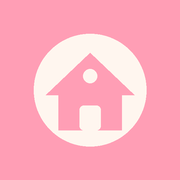
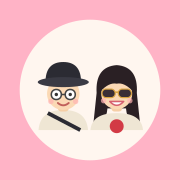
Add files via upload

diff --git a/index.html b/index.html
@@ -2,6 +2,7 @@
 <html lang="zh-Hant"><head><meta charset="utf-8">
 <meta name="viewport" content="width=device-width, initial-scale=1, viewport-fit=cover">
 <title>我們家的小金庫</title>
+<meta name="apple-mobile-web-app-status-bar-style" content="default">
 <link rel="manifest" href="manifest.json"><meta name="theme-color" content="#ff9eb5"><link rel="apple-touch-icon" href="apple-touch-icon.png"><meta name="apple-mobile-web-app-capable" content="yes"><meta name="mobile-web-app-capable" content="yes"><meta name="apple-mobile-web-app-title" content="小金庫">
 <style>
 :root{--bg:#fff6ef;--card:#ffffff;--tx:#5a4040;--sub:#a38a85;--pk:#ff9eb5;--pk2:#ffe1e8;--mt:#9bd8c0;--mt2:#e0f5ec;--yl:#ffd98a;--ln:#f3dcd2;--bad:#f08a8a;box-sizing:border-box;padding-top:env(safe-area-inset-top,0px);padding-bottom:env(safe-area-inset-bottom,0px);color-scheme:light}
@@ -29,7 +30,7 @@ nav button.on{background:var(--pk2);color:var(--tx);font-weight:700}nav span{dis
 </style>
 </head>
 <body>
-<h1>🏡 我們家的小金庫 🐻🐰</h1>
+<h1 id="hd"></h1>
 <div id="app"></div>
 <nav id="nav"></nav>
 <script>
@@ -53,7 +54,7 @@ function dref(c,id){const wr=async(o,d)=>{const t=cache[c]||(cache[c]={});if(o==
 const DB={collection:p=>({doc:id=>dref(p,id),onSnapshot(n,e){(subs[p]=subs[p]||[]).push([n,e]);return()=>{}}}),doc:p=>{const i=p.lastIndexOf('/');return dref(p.slice(0,i),p.slice(i+1))}};
 const rnd=n=>{const a=new Uint8Array(n);crypto.getRandomValues(a);return[...a].map(x=>x.toString(16).padStart(2,'0')).join('')};
 function pick(id){ID=id;try{localStorage.setItem('me',id)}catch(e){}render()}
-async function init(){CRED={};try{ID=localStorage.getItem('me')}catch(e){}render();start()}
+async function init(){$('#hd').innerHTML=ico('av:dad',46)+' 我們家的小金庫 '+ico('av:mom',46);CRED={};try{ID=localStorage.getItem('me')}catch(e){}render();start()}
 async function start(){
  if(API.startsWith('貼上')){msg='尚未設定後端網址，請見部署教學';render();return}
  db=DB;subs={};cache={};rd={f:0,p:1,m:0,a:1};const er=()=>{msg='連線錯誤';render()};
@@ -79,7 +80,7 @@ async function gen(){
  busy=0}
 function tot(pre){const r={i:0,o:0,f:0};all('tx').forEach(x=>{if(x.d.startsWith(pre)){if(x.t=='in')r.i+=x.a;else{r.o+=x.a;if(x.auto)r.f+=x.a}}});
  for(const id in A){if(id===ID)continue;const m=A[id].m||{};for(const k in m)if(k.startsWith(pre)){r.i+=m[k].i;r.o+=m[k].o;r.f+=m[k].f}}return r}
-const nm=id=>M[id]?M[id].e+' ':'👤 ';
+const nm=id=>M[id]?ico(M[id].e,18)+' ':'👤 ';
 function setTab(t){tab=t;render()}
 function render(){
  $('#nav').innerHTML=[['home','🏠','首頁'],['fix','🔁','固定收支'],['year','📊','年度報告'],['set','⚙','設定']].map(([k,i,n])=>`<button class="${tab==k?'on':''}" onclick="setTab('${k}')"><span>${i}</span>${n}</button>`).join('');
@@ -87,10 +88,10 @@ function render(){
  if(!CRED)b=loginHtml();else if(fail)b=`<div class="card"><b>🔑 需要登入才能共用</b><p class="sub">請在 claude.ai 登入你的帳號開啟這個頁面。擁有者要把另一半邀請為「Contributor（可使用並變更資料）」以上，兩人才能看到同一份帳本。</p></div>`;
  else if(!ok())b=`<div class="card">🐾 小金庫載入中…<p class="sub">${esc(msg)}</p></div>`;
  else{
-  const chips=Object.entries(M).map(([id,m])=>`<button class="chip ${id===ID?'on':''}" onclick="pick('${id}')">${esc(m.e)} ${esc(m.n)}${id===ID?'（我）':''}</button>`).join('');
+  const chips=Object.entries(M).map(([id,m])=>`<button class="chip ${id===ID?'on':''}" onclick="pick('${id}')">${ico(m.e,22)} ${esc(m.n)}${id===ID?'（我）':''}</button>`).join('');
   b=`<div class="row" style="justify-content:center">${chips}</div>`+(msg?`<div class="tip out">${esc(msg)} <button class="btn s" onclick="msg='';render()">知道了</button></div>`:'')+(!M[ID]?welcome():tab=='home'?home():tab=='fix'?fix():tab=='year'?year():set())}
  $('#app').innerHTML=b}
-function welcome(){return `<div class="card"><b>👋 歡迎！先告訴大家你是誰</b><div class="row" style="margin-top:8px"><input id="me" value="🐻" style="flex:0 0 56px;text-align:center"><input id="mn" placeholder="你的暱稱，如：老公"></div><button class="btn" style="width:100%;margin-top:10px" onclick="saveMe()">進入小金庫</button></div>`}
+function welcome(){return `<div class="card"><b>👋 歡迎！先告訴大家你是誰</b><div class="row" style="margin-top:8px"><input id="me" value="🐻" style="flex:0 0 56px;text-align:center"><input id="mn" placeholder="你的暱稱，如：老公"></div>${picker()}<button class="btn" style="width:100%;margin-top:10px" onclick="saveMe()">進入小金庫</button></div>`}
 function saveMe(){const n=$('#mn').value.trim();if(!n)return;if(!ID){ID=rnd(4);try{localStorage.setItem('me',ID)}catch(e){}}w(()=>db.doc('members/'+ID).set({n,e:$('#me').value||'🐻'}))}
 function mshift(d){vm+=d;if(vm>12){vm=1;vy++}if(vm<1){vm=12;vy--}render()}
 function home(){
@@ -104,8 +105,8 @@ function home(){
  <div class="row" style="margin-top:8px"><select id="c">${(vf.t=='in'?IC:EC).map(c=>`<option ${c==vf.c?'selected':''}>${c}</option>`).join('')}</select><input id="d" type="date" value="${vf.d||ym(cy,cm)+'-'+pad(td)}"></div>
  <div class="row" style="margin-top:8px"><input id="n" placeholder="備註（選填）" value="${esc(vf.n||'')}"></div>
  <button class="btn" style="width:100%;margin-top:10px" onclick="addTx()">記下來 🐾</button></div>
- ${budgetCard(list)}<div class="card"><b>📒 本月明細</b>
- ${list.length?list.map(x=>`<div class="li"><div>${esc(x.c)}${x.auto?'<span class="tag">自動</span>':''}${x.p?'<span class="tag">🙈</span>':''}<div class="sub">${x.d.slice(5)} ${nm(x.o)}${esc(x.note||'')}</div></div><div class="${x.t}">${x.t=='in'?'+':'-'}${$$(x.a)} ${x.o===ID?`<button class="btn s" onclick="del('${x.id}')">✕</button>`:''}</div></div>`).join(''):'<p class="sub">還沒有紀錄，開始記第一筆吧 🌱</p>'}</div>`}
+ ${budgetCard(list)}<div class="card"><b>📒 本月明細</b> <span class="sub">點一筆可修改金額或類別</span>
+ ${list.length?list.map(x=>x.id===editId?editRow(x):`<div class="li" onclick="edit('${x.id}')" style="cursor:pointer"><div>${esc(x.c)}${x.auto?'<span class="tag">自動</span>':''}${x.p?'<span class="tag">🙈</span>':''}<div class="sub">${x.d.slice(5)} ${nm(x.o)}${esc(x.note||'')}</div></div><div class="${x.t}">${x.t=='in'?'+':'-'}${$$(x.a)}</div></div>`).join(''):'<div style="text-align:center">'+ico('av:rider',90)+'<p class="sub">還沒有紀錄，開始記第一筆吧 🌱</p></div>'}</div>`}
 function budgetCard(list){
  const B=(all('budget')[0]||{}).m||{},sp={};let tt=0;list.forEach(x=>{if(x.t=='out'){sp[x.c]=(sp[x.c]||0)+x.a;tt+=x.a}});
  const cats=Object.keys(B),ex=EC.filter(c=>sp[c]&&!B[c]);
@@ -115,6 +116,15 @@ function setBud(){const a=parseFloat($('#ba').value);if(!(a>=0))return;const m={
 function trend(Y){const d=[];for(let m=1;m<=12;m++)d.push(tot(ym(Y,m)));const mx=Math.max(1,...d.map(t=>Math.max(t.i,t.o)));
  return `<div style="display:flex;gap:3px;margin-top:12px">${d.map((t,i)=>`<div style="flex:1;display:flex;flex-direction:column;align-items:center"><div style="display:flex;align-items:flex-end;gap:1px;height:70px"><i style="width:5px;border-radius:3px;background:var(--mt);height:${t.i/mx*100}%"></i><i style="width:5px;border-radius:3px;background:var(--pk);height:${t.o/mx*100}%"></i></div><span class="sub" style="font-size:10px">${i+1}月</span></div>`).join('')}</div><div class="sub">🟢 每月收入　🌸 每月支出</div>`}
 let vf={};
+const AV={"dad": "<svg viewBox=\"0 0 100 100\" width=\"100%\" height=\"100%\" xmlns=\"http://www.w3.org/2000/svg\"><path d=\"M18 100Q20 74 50 74Q80 74 82 100Z\" fill=\"#efe6d4\"/><path d=\"M30 78L72 100\" stroke=\"#2b2b33\" stroke-width=\"5\"/><rect x=\"43\" y=\"66\" width=\"14\" height=\"10\" rx=\"4\" fill=\"#f5cfa6\"/><circle cx=\"50\" cy=\"53\" r=\"21\" fill=\"#fbd9b5\"/><path d=\"M27 38Q27 12 50 12Q73 12 73 38Z\" fill=\"#2b2b33\"/><ellipse cx=\"50\" cy=\"38\" rx=\"33\" ry=\"6.5\" fill=\"#3a3a44\"/><circle cx=\"41\" cy=\"54\" r=\"6.5\" fill=\"#fff\" stroke=\"#444\" stroke-width=\"2\"/><circle cx=\"59\" cy=\"54\" r=\"6.5\" fill=\"#fff\" stroke=\"#444\" stroke-width=\"2\"/><path d=\"M47.5 54h5\" stroke=\"#444\" stroke-width=\"2\"/><circle cx=\"41\" cy=\"54\" r=\"2.2\" fill=\"#333\"/><circle cx=\"59\" cy=\"54\" r=\"2.2\" fill=\"#333\"/><path d=\"M43 65Q50 71 57 65\" stroke=\"#c0605a\" stroke-width=\"2.5\" fill=\"none\" stroke-linecap=\"round\"/><circle cx=\"34\" cy=\"63\" r=\"3.5\" fill=\"#ffb3b3\" opacity=\".7\"/><circle cx=\"66\" cy=\"63\" r=\"3.5\" fill=\"#ffb3b3\" opacity=\".7\"/></svg>", "mom": "<svg viewBox=\"0 0 100 100\" width=\"100%\" height=\"100%\" xmlns=\"http://www.w3.org/2000/svg\"><path d=\"M24 52Q22 18 50 16Q78 18 76 52L80 90Q64 94 62 72L38 72Q36 94 20 90Z\" fill=\"#2a2024\"/><path d=\"M16 100Q18 78 50 78Q82 78 84 100Z\" fill=\"#efe6d4\"/><circle cx=\"50\" cy=\"95\" r=\"9\" fill=\"#d23a45\"/><rect x=\"43\" y=\"66\" width=\"14\" height=\"10\" rx=\"4\" fill=\"#f5cfa6\"/><circle cx=\"50\" cy=\"53\" r=\"20\" fill=\"#fbd9b5\"/><path d=\"M29 50Q30 26 50 26Q70 26 71 50Q60 38 50 40Q40 38 29 50Z\" fill=\"#2a2024\"/><rect x=\"31\" y=\"47\" width=\"17\" height=\"11\" rx=\"5\" fill=\"#3b2f36\" stroke=\"#d9a441\" stroke-width=\"1.5\"/><rect x=\"52\" y=\"47\" width=\"17\" height=\"11\" rx=\"5\" fill=\"#3b2f36\" stroke=\"#d9a441\" stroke-width=\"1.5\"/><path d=\"M48 51h4\" stroke=\"#d9a441\" stroke-width=\"2\"/><path d=\"M41 63Q50 73 59 63Z\" fill=\"#fff\" stroke=\"#d6616f\" stroke-width=\"2\" stroke-linejoin=\"round\"/><circle cx=\"33\" cy=\"62\" r=\"3.5\" fill=\"#ffb3b3\" opacity=\".7\"/><circle cx=\"67\" cy=\"62\" r=\"3.5\" fill=\"#ffb3b3\" opacity=\".7\"/></svg>", "rider": "<svg viewBox=\"0 0 100 100\" width=\"100%\" height=\"100%\" xmlns=\"http://www.w3.org/2000/svg\"><circle cx=\"24\" cy=\"86\" r=\"11\" fill=\"none\" stroke=\"#555\" stroke-width=\"3\"/><circle cx=\"78\" cy=\"86\" r=\"11\" fill=\"none\" stroke=\"#555\" stroke-width=\"3\"/><path d=\"M24 86L44 68H64L78 86M44 68L50 86H24M62 68L58 56\" stroke=\"#8a8a8a\" stroke-width=\"3\" fill=\"none\"/><path d=\"M60 72Q82 64 92 80L72 80Z\" fill=\"#f6b21b\"/><path d=\"M34 62Q36 46 50 44Q64 46 66 62Z\" fill=\"#1d1d22\"/><path d=\"M62 50L70 60\" stroke=\"#1d1d22\" stroke-width=\"6\" stroke-linecap=\"round\"/><rect x=\"38\" y=\"60\" width=\"28\" height=\"13\" rx=\"5\" fill=\"#1f858c\"/><circle cx=\"46\" cy=\"66\" r=\"2\" fill=\"#f0e6d0\"/><circle cx=\"56\" cy=\"64\" r=\"2\" fill=\"#f0e6d0\"/><circle cx=\"62\" cy=\"68\" r=\"2\" fill=\"#f0e6d0\"/><rect x=\"48\" y=\"72\" width=\"6\" height=\"11\" fill=\"#f3c9a0\"/><rect x=\"46\" y=\"82\" width=\"11\" height=\"4\" rx=\"2\" fill=\"#8b5a2b\"/><circle cx=\"50\" cy=\"30\" r=\"17\" fill=\"#1d1d22\"/><circle cx=\"50\" cy=\"33\" r=\"11.5\" fill=\"#fbd9b5\"/><path d=\"M42 31Q45 28 48 31M53 31Q56 28 59 31\" stroke=\"#333\" stroke-width=\"2\" fill=\"none\" stroke-linecap=\"round\"/><path d=\"M43 36Q50 46 57 36Z\" fill=\"#fff\" stroke=\"#c0605a\" stroke-width=\"1.5\" stroke-linejoin=\"round\"/></svg>"};
+function ico(e,z){const m=/^av:(\w+)$/.exec(e||'');return m&&AV[m[1]]?`<span style="display:inline-block;width:${z}px;height:${z}px;vertical-align:middle">${AV[m[1]]}</span>`:esc(e||'')}
+function picker(){return `<div class="row" style="margin-top:8px"><span class="sub">卡通頭像：</span>${['dad','mom','rider'].map(k=>`<button class="chip" onclick="$('#me').value='av:${k}'">${ico('av:'+k,34)}</button>`).join('')}</div>`}
+let editId=null,dp=null;window.addEventListener('beforeinstallprompt',e=>{e.preventDefault();dp=e;render()});
+function installApp(){if(dp){dp.prompt();dp=null;render()}}
+function editRow(x){const L=x.t=='in'?IC:EC,o=L.includes(x.c)?L:[x.c,...L];return `<div style="background:var(--pk2);border-radius:14px;padding:10px;margin:6px 0"><div class="row"><input id="ea" type="number" inputmode="decimal" value="${x.a}"><select id="ec">${o.map(c=>`<option ${c==x.c?'selected':''}>${c}</option>`).join('')}</select></div><div class="row" style="margin-top:8px"><input id="ed" type="date" value="${x.d}"><input id="en" placeholder="備註" value="${esc(x.note||'')}"></div><div class="row" style="margin-top:8px"><button class="btn g" onclick="saveEdit('${x.id}')">儲存</button><button class="btn s" onclick="edit(null)">取消</button><button class="btn s" onclick="if(confirm('確定刪除這筆？'))delEdit('${x.id}')">🗑 刪除</button></div></div>`}
+function edit(id){editId=id;render()}
+function saveEdit(id){const a=parseFloat($('#ea').value);if(!(a>0))return;editId=null;w(()=>col().doc(id).update({a,c:$('#ec').value,d:$('#ed').value,note:$('#en').value}))}
+function delEdit(id){editId=null;w(()=>col().doc(id).delete())}
 function catOpt(){vf.t=$('#t').value;vf.c=null;$('#c').innerHTML=($('#t').value=='in'?IC:EC).map(c=>`<option>${c}</option>`).join('')}
 function addTx(){const a=parseFloat($('#a').value);if(!(a>0))return;const p=false;vf={};w(()=>col(p).doc('t'+uid()).set({k:'tx',d:$('#d').value,a,t:$('#t').value,c:$('#c').value,o:ID,p,note:$('#n').value}))}
 function del(id){const x=[...F,...P].find(y=>y.id===id);if(x)w(()=>col(x.p).doc(id).delete())}
@@ -164,8 +174,8 @@ function year(){
  ${vy==cy?'<p class="sub">預估＝已入帳 ＋ 尚未入帳的固定收支與股利 ＋ 今年平均每月日常花費 × 剩餘月份。</p>':''}</div>
  <div class="card"><b>🐻 明年的理財小建議</b>${tips.map(t=>`<div class="tip">${t}</div>`).join('')}</div>`}
 function set(){const m=M[ID]||{n:'',e:'🐻'};
- return `<div class="card"><b>${nm(ID)}我的資料</b><div class="row" style="margin-top:8px"><input id="me" value="${esc(m.e)}" style="flex:0 0 56px;text-align:center"><input id="mn" value="${esc(m.n)}"></div><button class="btn" style="width:100%;margin-top:8px" onclick="saveMe()">儲存</button></div>
- <div class="card"><b>🔗 分享給家人</b><p class="sub">把這個網頁的網址傳給家人即可使用，不需要密碼或帳號。知道網址的人都能看到並修改所有帳目。</p><p class="sub">點頁面最上方的名字可以切換記帳人，例如共用同一支手機時。</p></div>`}
+ return `<div class="card"><b>${nm(ID)}我的資料</b><div class="row" style="margin-top:8px"><input id="me" value="${esc(m.e)}" style="flex:0 0 56px;text-align:center"><input id="mn" value="${esc(m.n)}"></div>${picker()}<button class="btn" style="width:100%;margin-top:8px" onclick="saveMe()">儲存</button></div>
+ <div class="card"><b>🔗 分享給家人</b><p class="sub">把這個網頁的網址傳給家人即可使用，不需要密碼或帳號。知道網址的人都能看到並修改所有帳目。</p><p class="sub">點頁面最上方的名字可以切換記帳人，例如共用同一支手機時。</p></div><div class="card"><b>📲 安裝成手機 App</b><p class="sub">${dp?'':'iPhone：用 Safari 開啟 → 分享 → 加入主畫面。安卓：用 Chrome 開啟 → ⋮ → 安裝應用程式。'}安裝後會有自己的圖示，開啟時是全螢幕。</p>${dp?'<button class="btn g" style="width:100%" onclick="installApp()">一鍵安裝到手機</button>':''}</div>`}
 if("serviceWorker" in navigator)navigator.serviceWorker.register("sw.js").catch(()=>{});
 init();
 </script></body></html>

diff --git a/sw.js b/sw.js
@@ -1,4 +1,4 @@
-const C='ledger-v1',A=['./','./index.html','./manifest.json','./icon-192.png','./icon-512.png'];
+const C='ledger-v2',A=['./','./index.html','./manifest.json','./icon-192.png','./icon-512.png'];
 self.addEventListener('install',e=>{e.waitUntil(caches.open(C).then(c=>c.addAll(A)));self.skipWaiting()});
 self.addEventListener('activate',e=>e.waitUntil(clients.claim()));
 self.addEventListener('fetch',e=>{const u=new URL(e.request.url);if(e.request.method!=='GET'||u.origin!==location.origin)return;e.respondWith(fetch(e.request).then(r=>{const k=r.clone();caches.open(C).then(c=>c.put(e.request,k));return r}).catch(()=>caches.match(e.request).then(r=>r||caches.match('./index.html'))))});
